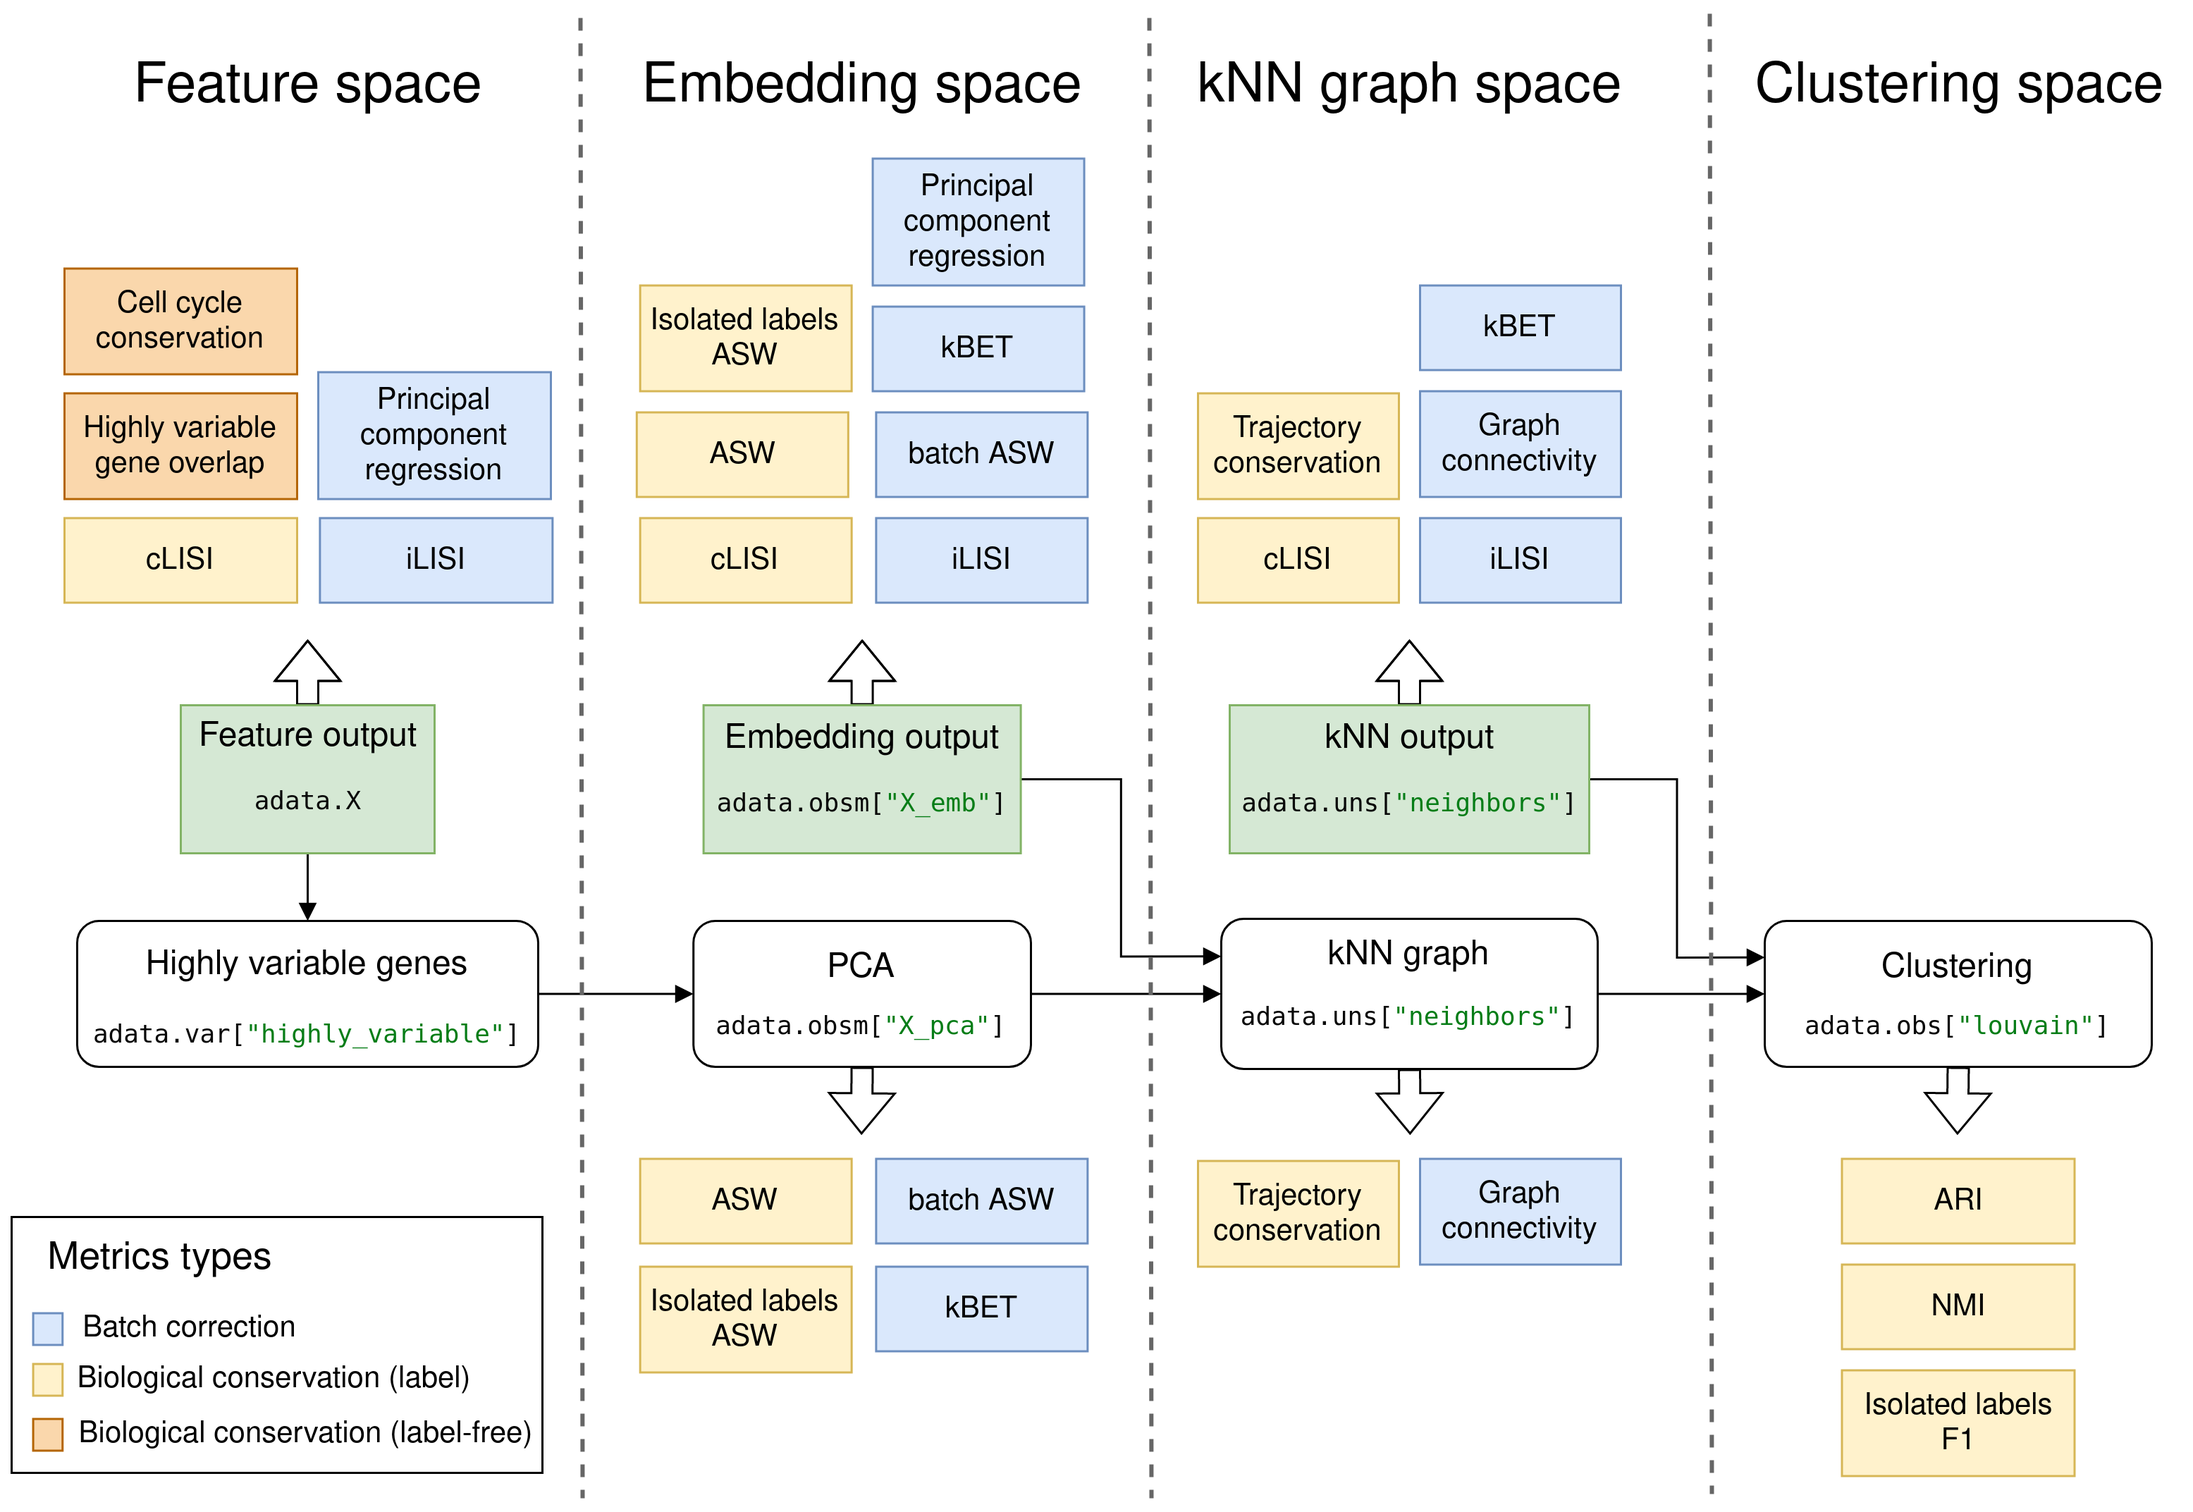
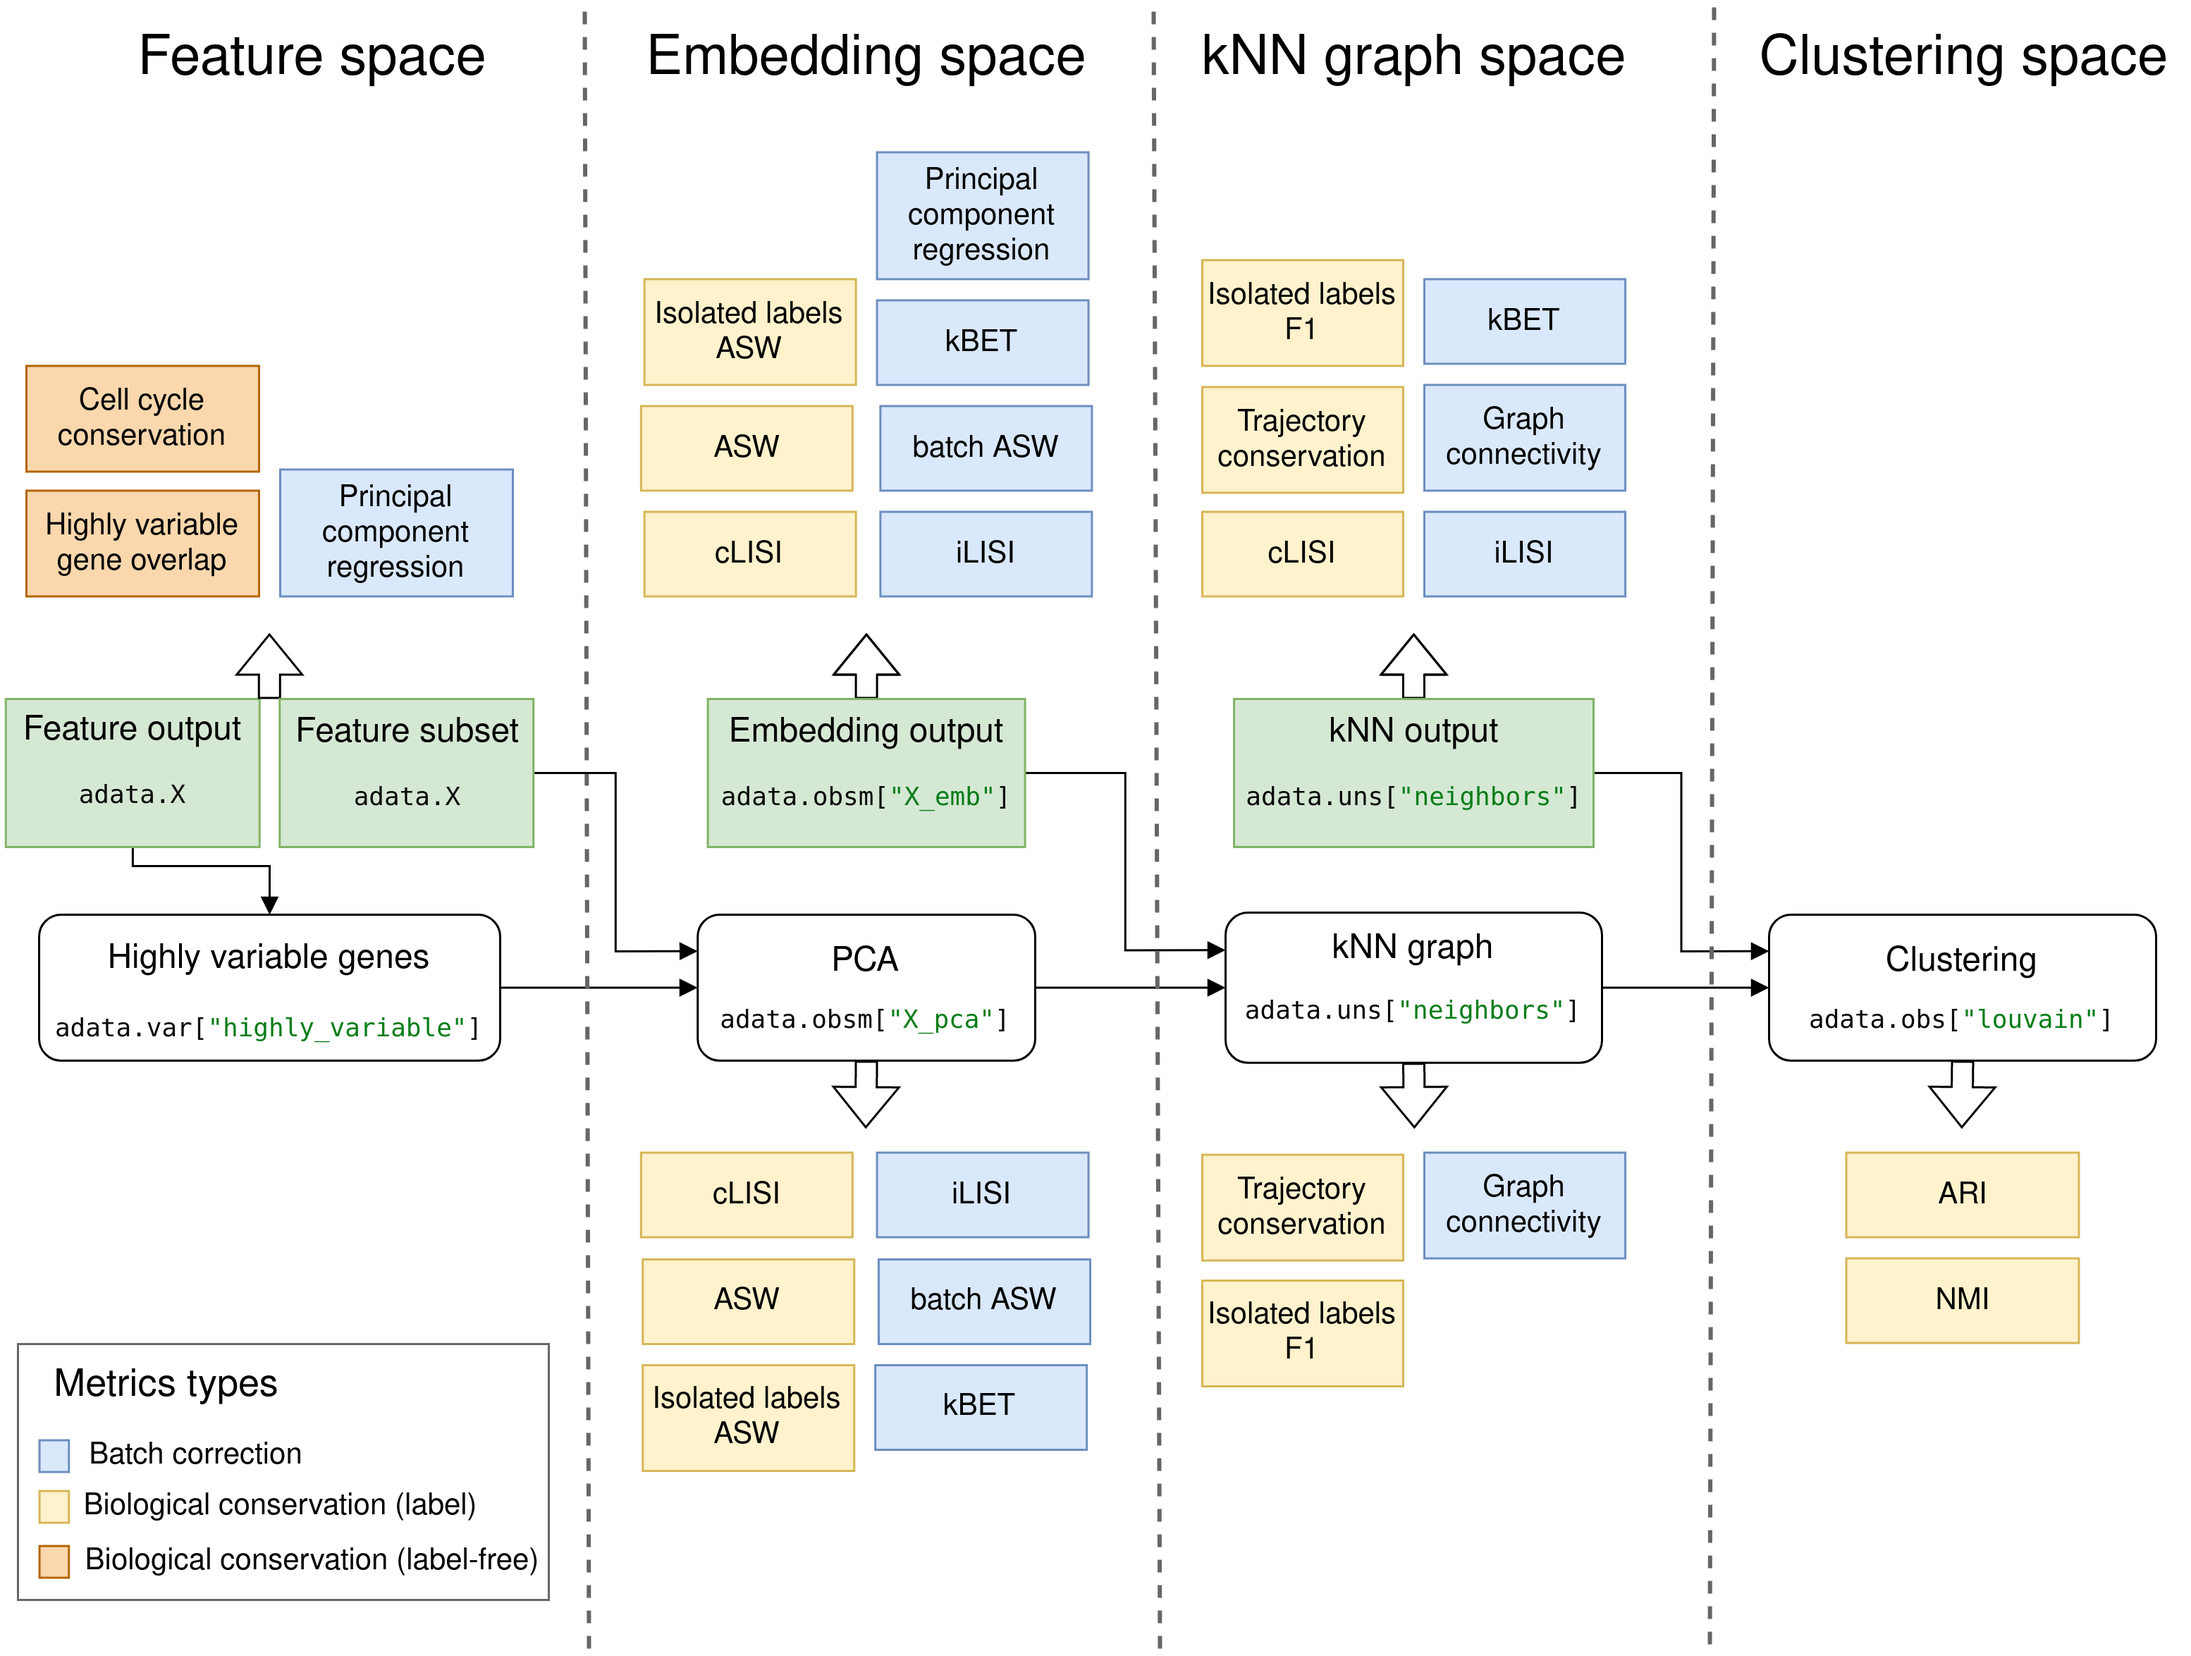
separate isolated label score functions into F1 an ASW. Add preprocessing examples

diff --git a/scib/metrics/isolated_labels.py b/scib/metrics/isolated_labels.py
@@ -5,6 +5,179 @@ from .clustering import opt_louvain
 from .silhouette import silhouette
 
 
+def isolated_labels_f1(
+    adata,
+    label_key,
+    batch_key,
+    embed,
+    iso_threshold=None,
+    verbose=True,
+):
+    """Isolated label score F1
+
+    Score how well isolated labels are distinguished from other labels by data-driven clustering.
+    The F1 score is used to evaluate clustering with respect to the ground truth labels.
+    This function performs clustering on a kNN graph and can be applied to all integration output types.
+    The ``adata`` requires either a kNN graph in ``adata.uns['neighbors]`` or an embedding in ``adata.obsm``.
+    If an embedding is specified, the function will compute a kNN graph based on the embedding, otherwise the function
+    uses the existing kNN graph in ``adata.uns['neighbors']``.
+    See below for examples of preprocessing and function calls.
+
+    :param adata: anndata object
+    :param label_key: column in ``adata.obs``
+    :param batch_key: column in ``adata.obs``
+    :param embed: key in adata.obsm used for as representation for kNN graph computation.
+        If ``embed=None``, use the existing kNN graph in ``adata.uns['neighbors']``.
+    :param iso_threshold: max number of batches per label for label to be considered as
+        isolated, if iso_threshold is integer.
+        If ``iso_threshold=None``, consider minimum number of batches that labels are present in
+    :param verbose:
+    :return: Mean of F1 scores over all isolated labels
+
+    **Preprocessing: Full feature output**
+
+    Feature output requires processing of the count matrix in the following steps:
+
+        1. Highly variable gene selection (skip, if working on feature space subset)
+        2. PCA
+        3. kNN graph (optional)
+
+    .. code-block:: python
+
+        scib.me.isolated_labels_f1(
+            adata, batch_key="celltype", label_key="celltype", embed="X_pca"
+        )
+
+        # optional: precompute kNN graph
+        scib.pp.reduce_data(adata, n_top_genes=2000, pca=True, neighbors=True, umap=False)
+        scib.me.isolated_labels_f1(
+            adata, batch_key="celltype", label_key="celltype", embed="X_pca"
+        )
+
+    **Preprocessing Embedding output**
+
+    The embedding should be stored in ``adata.obsm``, by default under key ``'X_embed'``.
+    KNN graph computation is optional for this function and will be recomputed, if an embedding key is specified.
+
+    .. code-block:: python
+
+        scib.me.isolated_labels_f1(
+            adata, batch_key="celltype", label_key="celltype", embed="X_embed"
+        )
+
+        # optional: precompute kNN graph
+        scib.pp.reduce_data(adata, pca=False, neighbors=True, umap=False)
+        scib.me.isolated_labels_f1(
+            adata, batch_key="celltype", label_key="celltype", embed=None
+        )
+
+    **Preprocessing: kNN graph output**
+
+    No preprocessing required.
+    The kNN graph is stored under ``adata.uns['neighbors']`` and will be used if ``embed`` is set to ``None``.
+
+    .. code-block:: python
+
+        scib.me.isolated_labels_f1(
+            adata, batch_key="celltype", label_key="celltype", embed=None
+        )
+
+    """
+    return isolated_labels(
+        adata,
+        label_key=label_key,
+        batch_key=batch_key,
+        embed=embed,
+        cluster=True,
+        iso_threshold=iso_threshold,
+        verbose=verbose,
+    )
+
+
+def isolated_labels_asw(
+    adata,
+    label_key,
+    batch_key,
+    embed,
+    iso_threshold=None,
+    verbose=True,
+):
+    """Isolated label score ASW
+
+    Score how well isolated labels are distinguished from all other labels using the average-width silhouette score (ASW).
+    The function requires an embedding to be stored in ``adata.obsm`` and can only be applied to feature and embedding
+    integration outputs.
+    See below for examples of preprocessing and function calls.
+
+    :param adata: anndata object
+    :param label_key: column in ``adata.obs``
+    :param batch_key: column in ``adata.obs``
+    :param embed: key in ``adata.obsm`` used for `func:~scib.metrics.silhouette`
+    :param iso_threshold: max number of batches per label for label to be considered as
+        isolated, if iso_threshold is integer.
+        If ``iso_threshold=None``, consider minimum number of batches that labels are present in
+    :param verbose:
+    :return: Mean of ASW over all isolated labels
+
+    **Preprocessing: Full feature output**
+
+    Feature output requires processing of the count matrix in the following steps:
+
+        1. Highly variable gene selection (skip, if working on feature space subset)
+        2. PCA
+
+    .. code-block:: python
+
+        scib.me.isolated_labels_asw(
+            adata, batch_key="celltype", label_key="celltype", embed="X_pca"
+        )
+
+        # optional: precompute kNN graph
+        scib.pp.reduce_data_asw(adata, n_top_genes=2000, pca=True, neighbors=True, umap=False)
+        scib.me.isolated_labels_asw(
+            adata, batch_key="celltype", label_key="celltype", embed="X_pca"
+        )
+
+    **Preprocessing Embedding output**
+
+    The embedding should be stored in ``adata.obsm``, by default under key ``'X_embed'``.
+    KNN graph computation is optional for this function and will be recomputed, if an embedding key is specified.
+
+    .. code-block:: python
+
+        scib.me.isolated_labels_asw(
+            adata, batch_key="celltype", label_key="celltype", embed="X_embed"
+        )
+
+        # optional: precompute kNN graph
+        scib.pp.reduce_data(adata, pca=False, neighbors=True, umap=False)
+        scib.me.isolated_labels_asw(
+            adata, batch_key="celltype", label_key="celltype", embed=None
+        )
+
+    **Preprocessing: kNN graph output**
+
+    No preprocessing required.
+    The kNN graph is stored under ``adata.uns['neighbors']`` and will be used if ``embed`` is set to ``None``.
+
+    .. code-block:: python
+
+        scib.me.isolated_labels_asw(
+            adata, batch_key="celltype", label_key="celltype", embed=None
+        )
+
+    """
+    return isolated_labels(
+        adata,
+        label_key=label_key,
+        batch_key=batch_key,
+        embed=embed,
+        cluster=False,
+        iso_threshold=iso_threshold,
+        verbose=verbose,
+    )
+
+
 def isolated_labels(
     adata,
     label_key,
@@ -17,7 +190,7 @@ def isolated_labels(
 ):
     """Isolated label score
 
-    Score how well labels of isolated labels are distiguished in the dataset by either
+    Score how well labels of isolated labels are distinguished in the dataset by either
 
         1. clustering-based approach F1 score, or
         2. average-width silhouette score (ASW) on isolated label vs all other labels
@@ -37,11 +210,14 @@ def isolated_labels(
         Mean of scores for each isolated label
         or dictionary of scores for each label if `return_all=True`
     """
-    scores = {}
+
+    # 1. determine isolated labels
     isolated_labels = get_isolated_labels(
         adata, label_key, batch_key, iso_threshold, verbose
     )
 
+    # 2. compute isolated label score for each isolated label
+    scores = {}
     for label in isolated_labels:
         score = score_isolated_label(
             adata, label_key, label, embed, cluster, verbose=verbose
@@ -79,28 +255,28 @@ def score_isolated_label(
     :return:
         Isolated label score
     """
-    adata_tmp = adata.copy()
-
-    def max_f1(adata, label_key, cluster_key, label, argmax=False):
-        """cluster optimizing over largest F1 score of isolated label"""
-        obs = adata.obs
-        max_cluster = None
-        max_f1 = 0
-        for cluster in obs[cluster_key].unique():
-            y_pred = obs[cluster_key] == cluster
-            y_true = obs[label_key] == label
-            f1 = f1_score(y_pred, y_true)
-            if f1 > max_f1:
-                max_f1 = f1
-                max_cluster = cluster
-        if argmax:
-            return max_cluster
-        return max_f1
+    adata = adata.copy()
 
     if cluster:
         # F1-score on clustering
+        def max_f1(adata, label_key, cluster_key, label, argmax=False):
+            """cluster optimizing over largest F1 score of isolated label"""
+            obs = adata.obs
+            max_cluster = None
+            max_f1 = 0
+            for cluster in obs[cluster_key].unique():
+                y_pred = obs[cluster_key] == cluster
+                y_true = obs[label_key] == label
+                f1 = f1_score(y_pred, y_true)
+                if f1 > max_f1:
+                    max_f1 = f1
+                    max_cluster = cluster
+            if argmax:
+                return max_cluster
+            return max_f1
+
         opt_louvain(
-            adata_tmp,
+            adata,
             label_key,
             cluster_key=iso_label_key,
             label=isolated_label,
@@ -109,15 +285,11 @@ def score_isolated_label(
             verbose=False,
             inplace=True,
         )
-        score = max_f1(
-            adata_tmp, label_key, iso_label_key, isolated_label, argmax=False
-        )
+        score = max_f1(adata, label_key, iso_label_key, isolated_label, argmax=False)
     else:
-        # AWS score between label
-        adata_tmp.obs[iso_label_key] = adata_tmp.obs[label_key] == isolated_label
-        score = silhouette(adata_tmp, iso_label_key, embed)
-
-    del adata_tmp
+        # AWS score between isolated label vs rest
+        adata.obs[iso_label_key] = adata.obs[label_key] == isolated_label
+        score = silhouette(adata, iso_label_key, embed)
 
     if verbose:
         print(f"{isolated_label}: {score}")

diff --git a/tests/metrics/test_isolated_label.py b/tests/metrics/test_isolated_label.py
@@ -1,0 +1,26 @@
+import scib
+from tests.common import LOGGER, assert_near_exact
+
+
+def test_isolated_labels_F1(adata_neighbors):
+    score = scib.me.isolated_labels_f1(
+        adata_neighbors,
+        label_key="celltype",
+        batch_key="batch",
+        embed="X_pca",
+        verbose=True,
+    )
+    LOGGER.info(f"score: {score}")
+    assert_near_exact(score, 0.5581395348837209, diff=1e-12)
+
+
+def test_isolated_labels_ASW(adata_neighbors):
+    score = scib.me.isolated_labels_asw(
+        adata_neighbors,
+        label_key="celltype",
+        batch_key="batch",
+        embed="X_pca",
+        verbose=True,
+    )
+    LOGGER.info(f"score: {score}")
+    assert_near_exact(score, 0.6101431176066399, diff=1e-3)

diff --git a/tests/metrics/test_cluster_metrics.py b/tests/metrics/test_cluster_metrics.py
@@ -32,16 +32,3 @@ def test_ari(adata_clustered):
     score = scib.me.ari(adata_clustered, cluster_key="cluster", label_key="celltype")
     LOGGER.info(f"score: {score}")
     assert_near_exact(score, 0.7614422905830917, diff=1e-2)
-
-
-def test_isolated_labels_F1(adata_neighbors):
-    score = scib.me.isolated_labels(
-        adata_neighbors,
-        label_key="celltype",
-        batch_key="batch",
-        embed="X_pca",
-        cluster=True,
-        verbose=True,
-    )
-    LOGGER.info(f"score: {score}")
-    assert_near_exact(score, 0.5581395348837209, diff=1e-12)

diff --git a/tests/metrics/test_silhouette_metrics.py b/tests/metrics/test_silhouette_metrics.py
@@ -21,16 +21,3 @@ def test_silhouette_batch(adata_pca):
     )
     LOGGER.info(f"score: {score}")
     assert_near_exact(score, 0.9014384369842835, diff=1e-3)
-
-
-def test_isolated_labels_silhouette(adata_pca):
-    score = scib.me.isolated_labels(
-        adata_pca,
-        label_key="celltype",
-        batch_key="batch",
-        embed="X_pca",
-        cluster=False,
-        verbose=True,
-    )
-    LOGGER.info(f"score: {score}")
-    assert_near_exact(score, 0.6101431176066399, diff=1e-3)

diff --git a/scib/metrics/__init__.py b/scib/metrics/__init__.py
@@ -3,7 +3,7 @@ from .cell_cycle import cell_cycle
 from .clustering import opt_louvain
 from .graph_connectivity import graph_connectivity
 from .highly_variable_genes import hvg_overlap
-from .isolated_labels import isolated_labels
+from .isolated_labels import isolated_labels_asw, isolated_labels_f1
 from .kbet import kBET
 from .lisi import clisi_graph, ilisi_graph, lisi_graph
 from .metrics import metrics, metrics_all, metrics_fast, metrics_slim

diff --git a/docs/source/scib_metrics.rst b/docs/source/scib_metrics.rst
@@ -36,7 +36,8 @@ the biological aspect that the metric addresses.
 
     hvg_overlap
     silhouette
-    isolated_labels
+    isolated_labels_f1
+    isolated_labels_asw
     nmi
     ari
     cell_cycle
